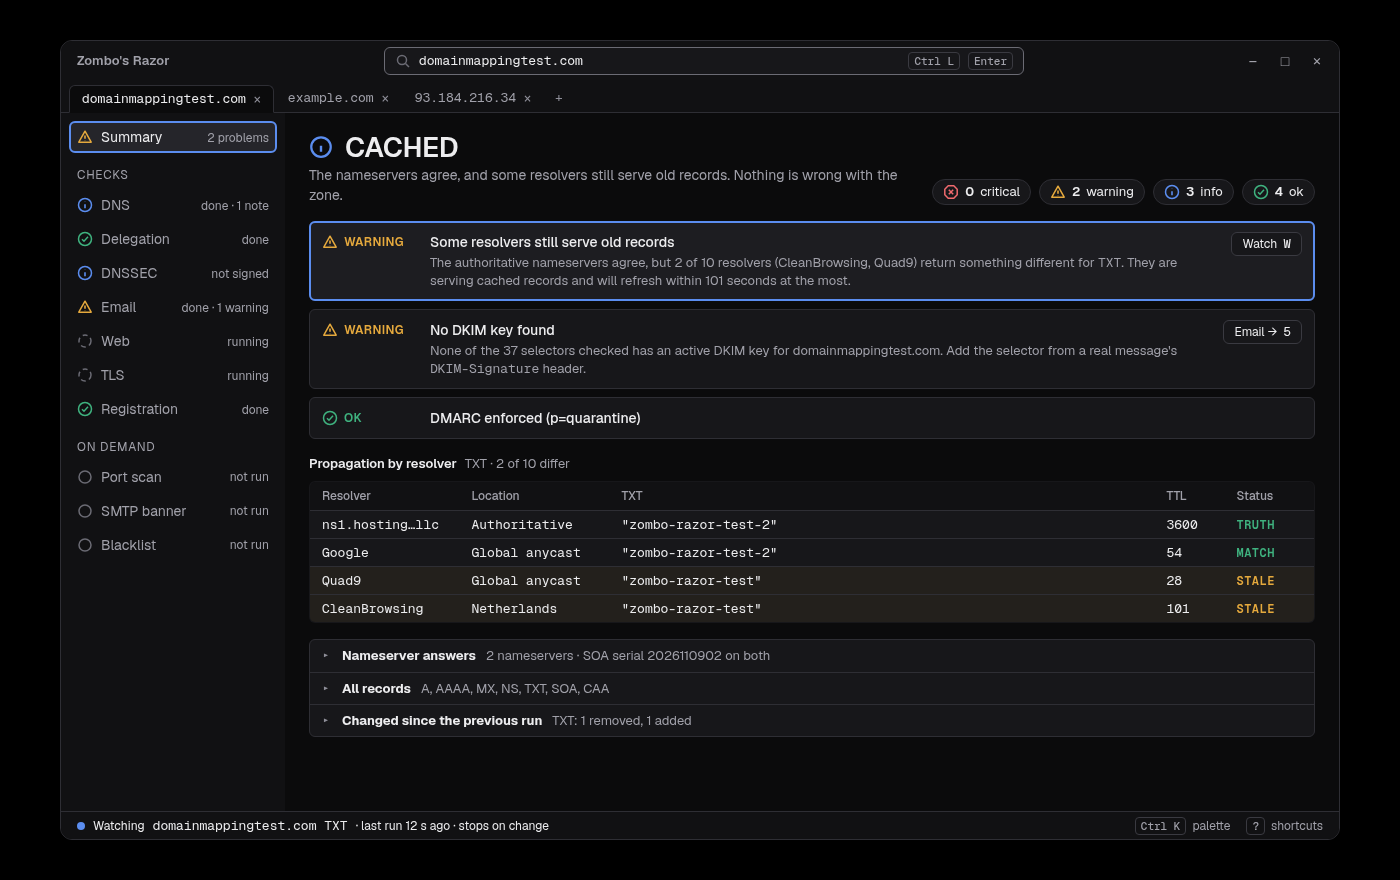
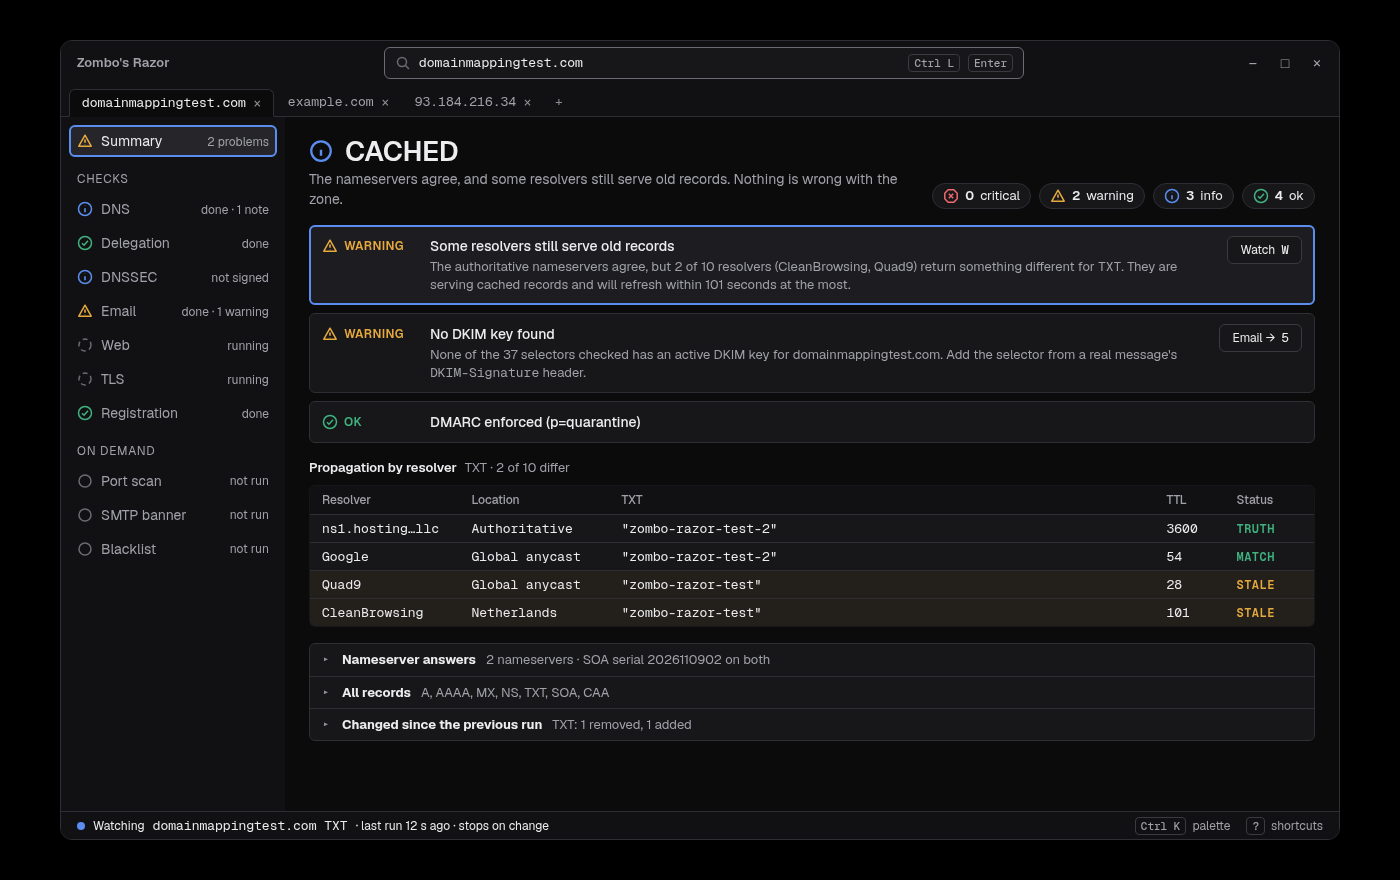
docs: sketch uses 32 px omnibox and 28 px buttons (hit targets); record detector ignores

diff --git a/docs/sketches/main-screen.html b/docs/sketches/main-screen.html
@@ -20,12 +20,12 @@
   html, body { height: 100%; }
   body { background: #000; color: var(--gray-1000); font: 400 14px/20px "Geist", system-ui, sans-serif; display: grid; place-items: center; }
   .mono { font-family: "Geist Mono", ui-monospace, monospace; font-size: 13px; line-height: 18px; }
-  .window { width: 1280px; height: 800px; background: var(--bg-100); border-radius: var(--r-l); overflow: hidden; display: grid; grid-template-rows: 40px 32px 1fr 28px; border: 1px solid var(--gray-400); }
+  .window { width: 1280px; height: 800px; background: var(--bg-100); border-radius: var(--r-l); overflow: hidden; display: grid; grid-template-rows: 44px 32px 1fr 28px; border: 1px solid var(--gray-400); }
 
   /* title bar with the omnibox */
   .titlebar { display: grid; grid-template-columns: 220px 1fr 220px; align-items: center; background: var(--bg-200); padding: 0 8px 0 16px; }
   .brand { font-weight: 600; font-size: 13px; color: var(--gray-900); letter-spacing: .01em; }
-  .omnibox { height: 28px; max-width: 640px; width: 100%; margin: 0 auto; display: flex; align-items: center; gap: 8px; padding: 0 10px; background: var(--gray-100); border: 1px solid var(--gray-600); border-radius: var(--r-s); }
+  .omnibox { height: 32px; max-width: 640px; width: 100%; margin: 0 auto; display: flex; align-items: center; gap: 8px; padding: 0 10px; background: var(--gray-100); border: 1px solid var(--gray-600); border-radius: var(--r-s); }
   .omnibox .q { flex: 1; color: var(--gray-1000); }
   .omnibox kbd, .hint kbd { font: 500 11px/16px "Geist Mono", monospace; color: var(--gray-900); border: 1px solid var(--gray-500); border-radius: 4px; padding: 0 5px; }
   .controls { display: flex; justify-content: flex-end; gap: 4px; }
@@ -68,7 +68,7 @@
   .finding h3 { font-weight: 500; font-size: 14px; line-height: 20px; }
   .finding p { color: var(--gray-900); font-size: 13px; line-height: 18px; margin-top: 2px; max-width: 760px; }
   .finding .act { display: flex; gap: 6px; align-items: center; color: var(--gray-900); font-size: 12px; }
-  .btn { height: 24px; padding: 0 10px; display: inline-flex; align-items: center; gap: 6px; border: 1px solid var(--gray-500); border-radius: var(--r-s); color: var(--gray-1000); background: var(--gray-100); font-size: 12px; }
+  .btn { height: 28px; padding: 0 12px; display: inline-flex; align-items: center; gap: 6px; border: 1px solid var(--gray-500); border-radius: var(--r-s); color: var(--gray-1000); background: var(--gray-100); font-size: 12px; }
 
   /* raw data */
   .data h4 { font-weight: 600; font-size: 13px; line-height: 18px; display: flex; align-items: center; gap: 8px; margin-bottom: 8px; }

diff --git a/DESIGN.md b/DESIGN.md
@@ -102,7 +102,7 @@ Carried over from the Go app's polish pass. The palette opens instantly. Hover a
 - **Radii.** 6 px for small surfaces, 12 px for larger surfaces, menus and dialogs.
 - **Borders.** 1 px, low contrast. Prefer spacing and background steps over separators.
 - **Spacing.** A 4 px grid: 4, 8, 12, 16, 24, 32. Pane padding 16. Gap between findings 8.
-- **Density.** Table and list rows 28 px. Rail items 32 px. Omnibox 36 px. Title bar 40 px. Hit targets at least 28 px.
+- **Density.** Table and list rows 28 px. Rail items 32 px. Omnibox 32 px in a 44 px title bar. Hit targets at least 28 px (buttons are 28 px tall).
 - **Type scale** (initial). Caption 12/16, label 13/18, body 14/20, subtitle 16/24, title 20/28, verdict 28/36. Weights 400, 500, 600. Monospace data 13/18.
 
 ### Initial dark palette (tune in the first build)
